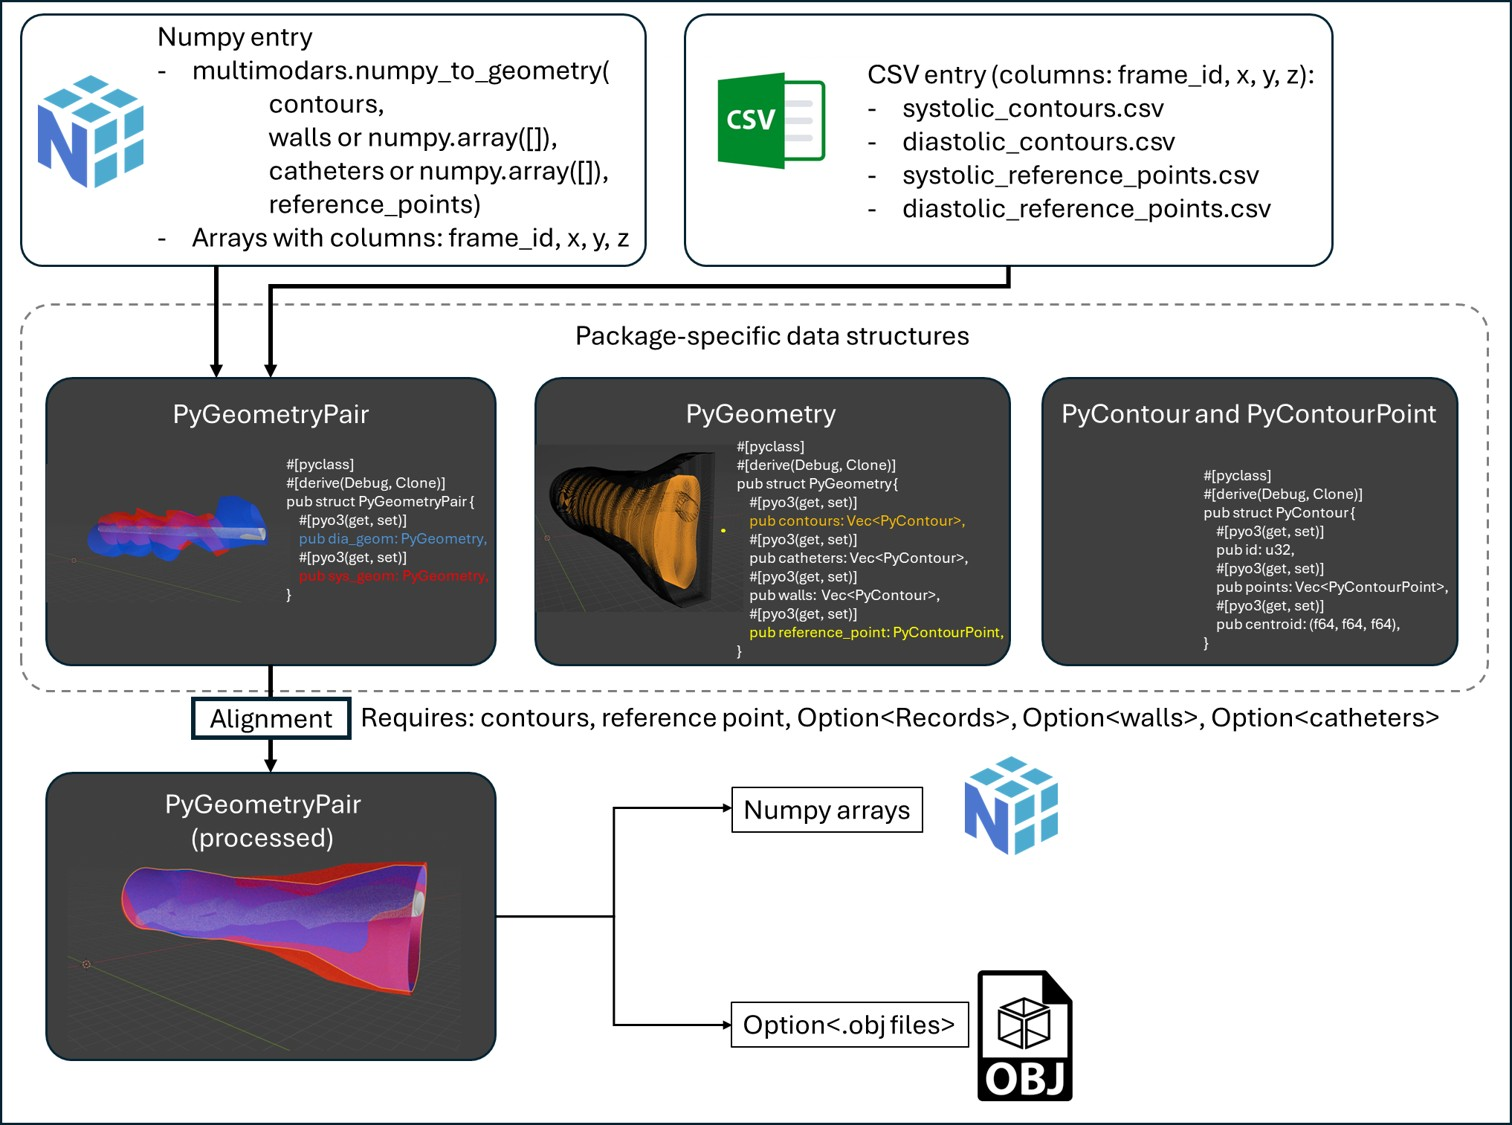
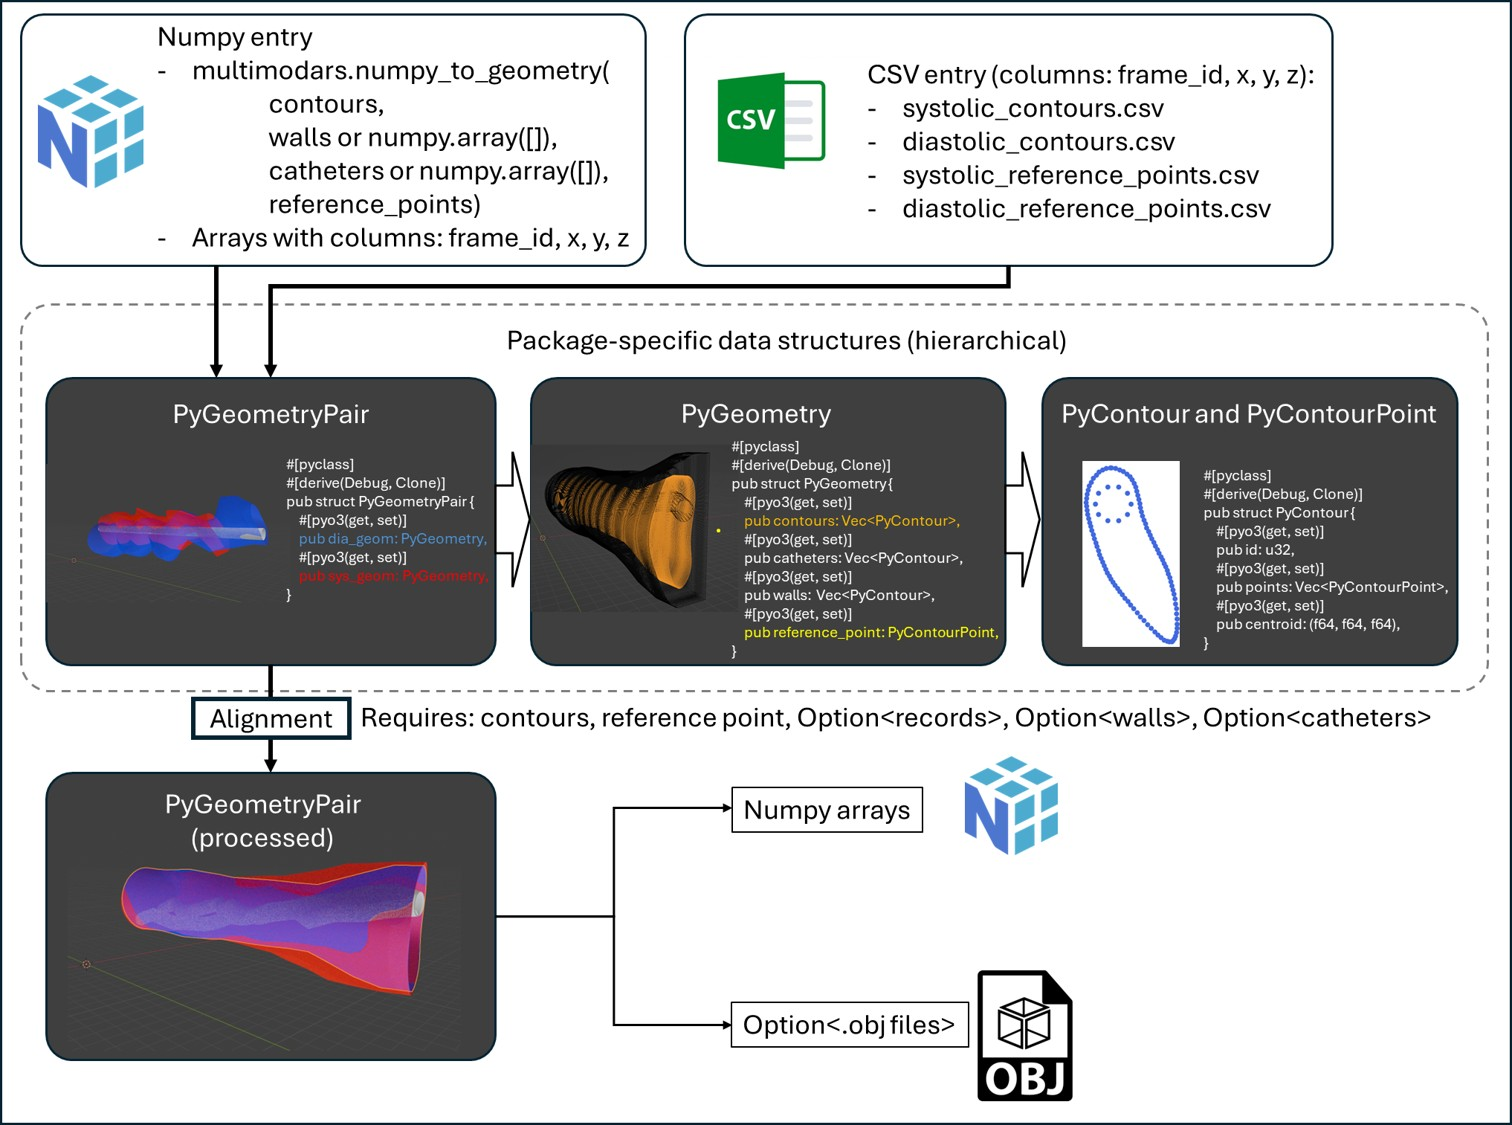
progress paper

diff --git a/paper/paper.md b/paper/paper.md
@@ -55,9 +55,9 @@ The project is built having scalability in mind and in the future this can be ex
 # Features
 `multimodars` is a Rust-powered, Python-accessible toolkit for multi-modality intravascular/CCTA image fusion and registration that combines a high-performance native core with a NumPy-first I/O model for easy integration into research pipelines. Core algorithms (Hausdorff-based frame alignment, three-point rotational fitting, Hamiltonian ordering) are implemented in Rust and parallelized with Rayon, while ergonomic PyO3 bindings expose a compact, well-typed data model (`PyContourPoint`, `PyContour`, `PyGeometry`, `PyGeometryPair`) that maps 1:1 to simple (N,4) NumPy arrays. The package supports four processings paradigms (full, double-pair, single-pair, single), round-trip conversion to/from CSV or binary arrays, and deterministic reconstruction of geometries from array inputs; utility methods provide centroiding, area/ellipticity metrics, smoothing, reordering, rotation/translation, and summary stenosis metrics.
 
-![Illustration of `multimodars`'s different processing modes in the context of coronary artery anomalies. "full" returns all 4 geometry pairs (rest pulsatile lumen deformation, stress pulsatile lumen deformation, stress-induced diastolic lumen deformation, stress-induced systolic lumen deformation), "double-pair" returns pulsatile lumen deformation in rest and stress, "single-pair" can be used to compare any two states in the same patient (pulsatile lumen deformation or pre- and post-stent) and "single" aligns just the frames in a pullback.\label{processing_modes}](figures/Figure1.jpg){width=80%}
+![Illustration of `multimodars`'s different processing modes in the context of coronary artery anomalies. "full" returns all 4 geometry pairs (rest pulsatile lumen deformation, stress pulsatile lumen deformation, stress-induced diastolic lumen deformation, stress-induced systolic lumen deformation), "double-pair" returns pulsatile lumen deformation in rest and stress, "single-pair" can be used to compare any two states in the same patient (pulsatile lumen deformation or pre- and post-stent) and "single" aligns just the frames in a pullback.\label{aim}](figures/Figure1.jpg){width=80%}
 
-## Alignment Algorithm
+## Overview and Datahandling
 Frame alignment in `multimodars` is a two-stage registration procedure that produces a spatially and rotationally consistent mapping of intravascular frames both **within a single pullback** (intra-pullback, *align-within*) and **between paired pullbacks** (inter-pullback, *align-between*). The result is deterministic and reproducible suitable for visualization, geometric analysis and downstream processing. The algorithmic design prioritises robustness and computational efficiency, however also leaves the option for a precise but inefficient bruteforce approach.
 
 ### Overview
@@ -71,11 +71,28 @@ The package is designed to work flawlessly with numpy, while information inside 
 
 
 # Alignment algorithms
+## Intra-pullback alignment
+The first stage of the alignment process establishes spatial consistency within a single pullback sequence. The proximal-most frame (i.e., the frame with the highest index) is selected as the rotational reference. Anatomical landmarks (aortic walls) are identified using the reference point provided in the CCTA geometry. The reference frame is then normalized by rotating its major axis (defined by the two farthest points) to the vertical orientation, and the aortic quadrant is rotated to the positive x-axis (rightward orientation). Subsequent proximal frames are sequentially aligned to their distal neighbors. This involves two steps: (1) translation, where the centroids of the two frames are matched, and (2) rotation, where the optimal rotation angle is found by minimizing the Hausdorff distance between the two point sets. The rotation optimization uses a multiscale approach: an initial coarse search (e.g., 1 degree steps) is followed by progressively finer searches (e.g., 0.1 and 0.01 degrees) within the neighborhood of the best coarse solution. This strategy balances accuracy and computational efficiency. The rotation applied to each frame is cumulative, ensuring that the vessel torsion is consistently propagated along the pullback.
 
+The brute-force intra-pullback alignment algorithm requires **O(n × m² × k)** operations, scaling cubically when frame count, contour size, and angular steps are comparable. The optimized implementation reduces this to **O(n × s² × k/p)** by fixing contour size through downsampling, applying multiscale angular search to shrink *k*, and leveraging parallelization across *p* processors. In practice, this yields near-linear scaling with frame count, enabling 200-frame pullbacks to be aligned in under 15 seconds on consumer hardware.
 
-Designed for reproducible research, multimodars ships with CI-driven tests, example notebooks, ReadTheDocs documentation, and file I/O helpers so clinicians and researchers can rapidly prototype patient-specific digital twin workflows while retaining high throughput and scalability.
+![Illustration of `multimodars`'s internal alignment algorithm, in a first step a catheter with certain number of points is created around the original image center (the more points the higher the influence of the image centern on the final alignment), in a second step all contours distal to the reference contour are translated towards the reference contour to match it's centroid. in a last step the optimal rotation is found between a contour i and contour i+1 by doing coars rotations first 1° steps, then 0.1° in decreasing ranges to balance accuracy and comptuational cost.\label{algorithm}](figures/Figure3.jpg){width=80%}
+
+## Inter-pullback alignment
+The second stage aligns two pullbacks (e.g., rest and stress) that have been independently normalized in the first stage. The two pullbacks are aligned by first matching the centroids of their distal frames (global translation). The z-coordinates (along the pullback direction) are harmonized using averaged slice spacing. Then, the entire systolic geometry is rotated as a rigid body relative to the diastolic reference to minimize the mean Hausdorff distance across all corresponding frames.
+
+## Parallelization
+Key computational bottlenecks are addressed via data parallelism. Point rotations and distance calculations are parallelized across CPU cores using Rayon's data-parallel iterators. The Hausdorff distance computation between two frames is optimized by parallelizing the nearest-neighbor searches for each point. Additionally, the processing of independent pullbacks (e.g., rest and stress) is distributed across threads. Within each pullback, the alignment of different frames can also be processed in parallel. This hierarchical task parallelism maximizes core utilization. To maintain real-time performance, point clouds are downsampled to 200-500 points per frame without sacrificing sub-pixel accuracy. The Rust compiler's LLVM backend further accelerates computation via SIMD instructions for coordinate transformations.
+
+# Centerline Alignment Algorithms
+`multimodars` offers specialized methods for fusing intravascular imaging with CCTA-derived centerlines, particularly valuable for complex anatomies like anomalous coronary arteries. The toolkit implements two distinct alignment approaches:
+
+The three-point registration method establishes spatial correspondence using anatomical landmarks. This algorithm identifies the optimal rigid rotation that minimizes distances between three reference points (aortic position, upper/lower sections) on the base contour and their CCTA-derived counterparts. An angular search identifies the transformation that best aligns these landmarks before propagating the rotation to all frames.
+
+The manual alignment alternative allows direct specification of rotation angles and starting points when anatomical landmarks are ambiguous. Both methods share a common transformation pipeline: after initial orientation correction (distal-to-proximal ordering), contours undergo centroid-based translation to centerline points followed by normal vector alignment.
+
+Key preprocessing ensures anatomical consistency. Centerlines are resampled to match contour spacing, automatically trimmed to aortic references, and reindexed. Contour normals guide rotational alignment through stable cross-product calculations. Post-alignment, the framework generates interpolated 3D meshes spanning diastolic-systolic states with UV coordinates for texturing, enabling direct visualization in biomedical software.
 
 # Acknowledgements
-
 
 # References
